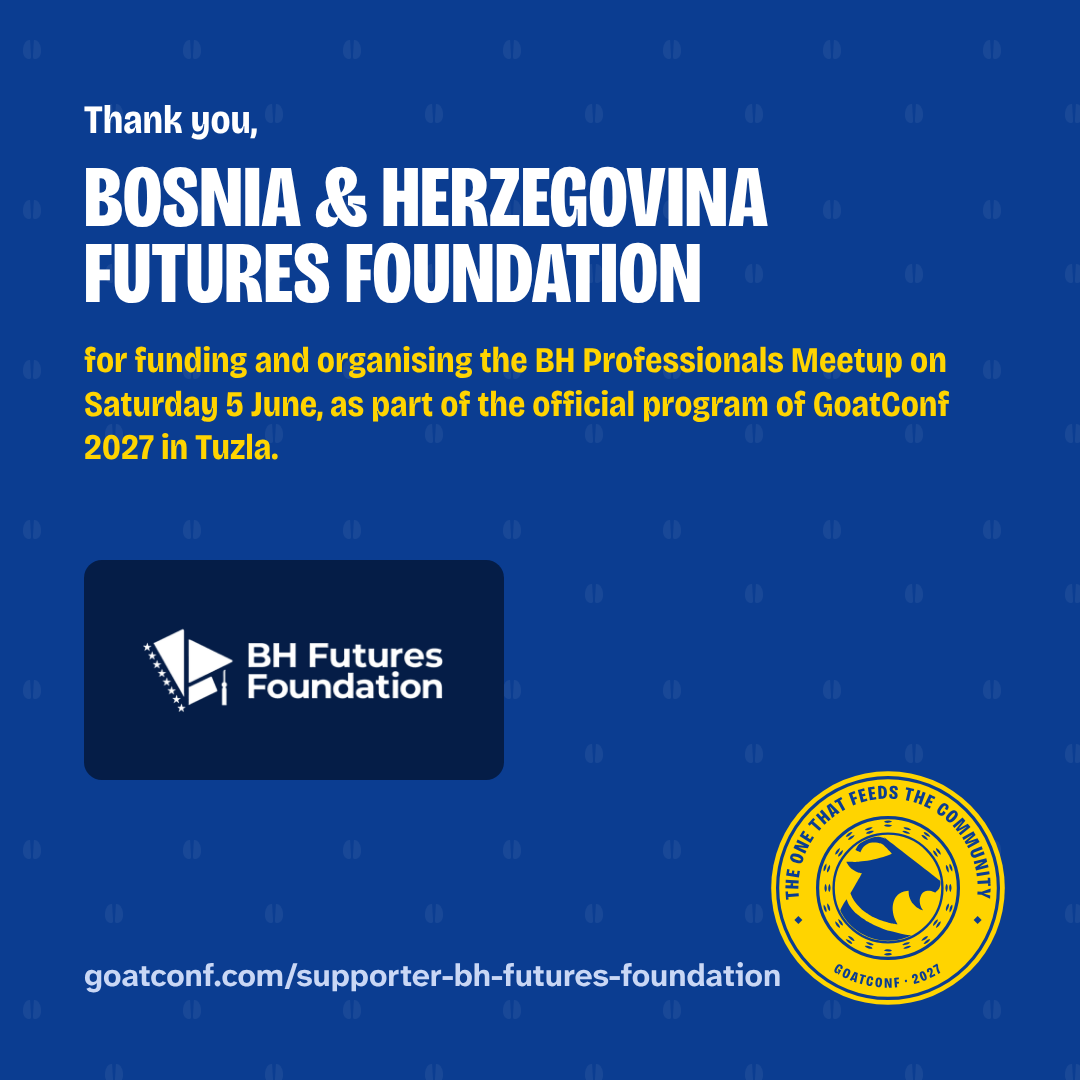
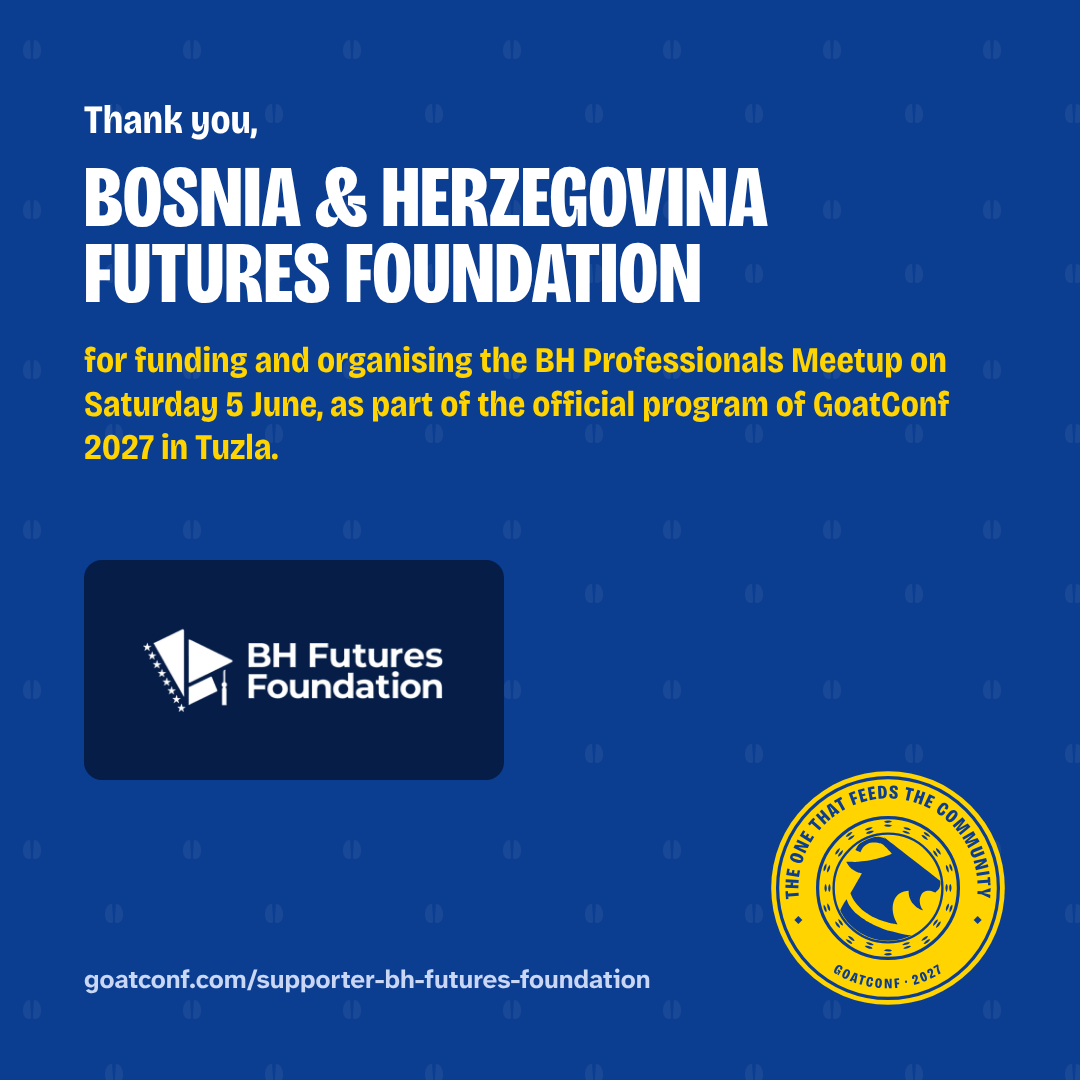
supporters: a "Proud supporter of GoatConf 2027" card for every supporter
Each supporter's profile now offers, above GoatConf's thank-you card,
its own card to post: "Proud supporter of GoatConf 2027", its logo, its
supporter line, when and where, and its profile's address, square and
wide, the same for every supporter. The local CI fails while one is
missing. A square card's address longer than 36 characters is set
smaller so it stays clear of the seal, which fixes the BH Futures
Foundation's square thank-you card.

diff --git a/files/site/supporter-bh-futures-foundation.html b/files/site/supporter-bh-futures-foundation.html
@@ -65,6 +65,12 @@
   <li><a class="sticker sticker--fact sticker--example" href="event-bh-professionals-meetup.html" data-peel style="--tilt:1deg"><span class="num">1</span><small class="sticker__kind">Meetup</small><strong>BH Professionals Meetup</strong><small>5 June 2027, 18:00 to 21:00. Run by Bosnia &amp; Herzegovina Futures Foundation.</small></a></li>
   </ul>
 </section>
+<section class="album-page wrap" aria-labelledby="h-cards-supporter-bh-futures-foundation-proud">
+  <h2 class="band" id="h-cards-supporter-bh-futures-foundation-proud">Your card: proud supporter</h2>
+  <p class="copy copy--wide">Your card, to post as your own: proud supporter of GoatConf 2027. It links back to this page.</p>
+  <img class="share-card" src="share/supporter-bh-futures-foundation-proud-wide.png" width="1200" height="675" alt="Bosnia &amp; Herzegovina Futures Foundation, proud supporter of GoatConf 2027" loading="lazy">
+  <p class="copy"><a class="go go--ink" href="share/supporter-bh-futures-foundation-proud-square.png" download>Download the square card</a> <a class="go go--ink" href="share/supporter-bh-futures-foundation-proud-wide.png" download>Download the wide card</a></p>
+</section>
 <section class="album-page wrap" aria-labelledby="h-cards-supporter-bh-futures-foundation">
   <h2 class="band" id="h-cards-supporter-bh-futures-foundation">The thank-you card</h2>
   <p class="copy copy--wide">A thank-you from GoatConf 2027 to post wherever you like. It links back to this page.</p>

diff --git a/files/site/supporter-wroclove-rb.html b/files/site/supporter-wroclove-rb.html
@@ -58,6 +58,12 @@
   <h2 class="band" id="h-support-them">How to support them</h2>
   <ul class="copy copy--wide support-them"><li><a href="https://wrocloverb.com/participants">Come to wroclove.rb, 23 to 25 April 2027 in Wrocław</a></li><li><a href="https://www.youtube.com/user/wrocloverb">Watch their past talks</a></li><li><a href="https://wrocloverb.kit.com/0430aa4d7d">Join their newsletter</a></li></ul>
 </section>
+<section class="album-page wrap" aria-labelledby="h-cards-supporter-wroclove-rb-proud">
+  <h2 class="band" id="h-cards-supporter-wroclove-rb-proud">Your card: proud supporter</h2>
+  <p class="copy copy--wide">Your card, to post as your own: proud supporter of GoatConf 2027. It links back to this page.</p>
+  <img class="share-card" src="share/supporter-wroclove-rb-proud-wide.png" width="1200" height="675" alt="wroclove.rb, proud supporter of GoatConf 2027" loading="lazy">
+  <p class="copy"><a class="go go--ink" href="share/supporter-wroclove-rb-proud-square.png" download>Download the square card</a> <a class="go go--ink" href="share/supporter-wroclove-rb-proud-wide.png" download>Download the wide card</a></p>
+</section>
 <section class="album-page wrap" aria-labelledby="h-cards-supporter-wroclove-rb">
   <h2 class="band" id="h-cards-supporter-wroclove-rb">The thank-you card</h2>
   <p class="copy copy--wide">A thank-you from GoatConf 2027 to post wherever you like. It links back to this page.</p>

diff --git a/files/site/supporter-ipi-academy.html b/files/site/supporter-ipi-academy.html
@@ -58,6 +58,12 @@
   <h2 class="band" id="h-support-them">How to support them</h2>
   <ul class="copy copy--wide support-them"><li><a href="https://ipi-akademija.ba/">Study at IPI Academy</a></li><li><a href="https://ipi-akademija.ba/kontakt">Offer students a placement, as an employer</a></li></ul>
 </section>
+<section class="album-page wrap" aria-labelledby="h-cards-supporter-ipi-academy-proud">
+  <h2 class="band" id="h-cards-supporter-ipi-academy-proud">Your card: proud supporter</h2>
+  <p class="copy copy--wide">Your card, to post as your own: proud supporter of GoatConf 2027. It links back to this page.</p>
+  <img class="share-card" src="share/supporter-ipi-academy-proud-wide.png" width="1200" height="675" alt="IPI Academy, proud supporter of GoatConf 2027" loading="lazy">
+  <p class="copy"><a class="go go--ink" href="share/supporter-ipi-academy-proud-square.png" download>Download the square card</a> <a class="go go--ink" href="share/supporter-ipi-academy-proud-wide.png" download>Download the wide card</a></p>
+</section>
 <section class="album-page wrap" aria-labelledby="h-cards-supporter-ipi-academy">
   <h2 class="band" id="h-cards-supporter-ipi-academy">The thank-you card</h2>
   <p class="copy copy--wide">A thank-you from GoatConf 2027 to post wherever you like. It links back to this page.</p>

diff --git a/files/site/supporter-meister.html b/files/site/supporter-meister.html
@@ -58,6 +58,12 @@
   <h2 class="band" id="h-support-them">How to support them</h2>
   <ul class="copy copy--wide support-them"><li><a href="https://www.meistertask.com">Try MeisterTask</a></li><li><a href="https://www.meistertask.com/pages/jobs">Work at Meister</a></li></ul>
 </section>
+<section class="album-page wrap" aria-labelledby="h-cards-supporter-meister-proud">
+  <h2 class="band" id="h-cards-supporter-meister-proud">Your card: proud supporter</h2>
+  <p class="copy copy--wide">Your card, to post as your own: proud supporter of GoatConf 2027. It links back to this page.</p>
+  <img class="share-card" src="share/supporter-meister-proud-wide.png" width="1200" height="675" alt="Meister, proud supporter of GoatConf 2027" loading="lazy">
+  <p class="copy"><a class="go go--ink" href="share/supporter-meister-proud-square.png" download>Download the square card</a> <a class="go go--ink" href="share/supporter-meister-proud-wide.png" download>Download the wide card</a></p>
+</section>
 <section class="album-page wrap" aria-labelledby="h-cards-supporter-meister">
   <h2 class="band" id="h-cards-supporter-meister">The thank-you card</h2>
   <p class="copy copy--wide">A thank-you from GoatConf 2027 to post wherever you like. It links back to this page.</p>

diff --git a/files/tools/shareables.py b/files/tools/shareables.py
@@ -12,7 +12,7 @@ from site/brand/, rendered to PNG by headless Chrome into site/share/:
             with a credited photo of Tuzla, each square (1080) and wide (1200 x 675)
   records   an "I'm speaking" card per published speaker (square, wide, and a
             1200 x 630 preview that their page's link preview shows), a
-            "thank you" card per supporter, and a card per accepted event
+            "thank you" card and a "proud supporter" card per supporter, and a card per accepted event
             (square, wide, and a 1200 x 630 preview for the event's page),
             built from speakers/, supporters/ and extensions/
 
@@ -231,6 +231,9 @@ def thanks(meta) -> str:
 def supporter_card(slug: str, meta, square: bool) -> str:
     w, h = (1080, 1080) if square else (1200, 675)
     logo = (SITE / meta["logo"]).as_uri()
+    address = f"{URL}/{speakers.supporter_page_name(slug)[:-5]}"
+    # A long address shrinks on the square card so it stays clear of the seal.
+    url_px = (32 if len(address) <= 36 else 26) if square else 26
     return page(w, h, f"""
 <div style="position:absolute; left:{84 if square else 72}px; top:{96 if square else 72}px; right:{84 if square else 460}px">
   <div class="sub" style="font-size:{40 if square else 32}px; color:#fff">Thank you,</div>
@@ -239,8 +242,30 @@ def supporter_card(slug: str, meta, square: bool) -> str:
 </div>
 <div style="position:absolute; {'left:84px; bottom:300px' if square else 'right:72px; top:72px'}; width:{420 if square else 340}px; height:{220 if square else 180}px; background:{NIGHT if meta.get('logo_on') == 'dark' else '#fff'}; border-radius:18px; display:grid; place-items:center; padding:28px">
   <img src="{logo}" style="max-width:100%; max-height:100%; object-fit:contain"></div>
-<div class="url" style="position:absolute; left:{84 if square else 72}px; bottom:{84 if square else 64}px; font-size:{32 if square else 26}px">{URL}/{speakers.supporter_page_name(slug)[:-5]}</div>
+<div class="url" style="position:absolute; left:{84 if square else 72}px; bottom:{84 if square else 64}px; font-size:{url_px}px">{address}</div>
 {seal(240 if square else 220, "right:72px; bottom:72px")}""")
+
+
+def proud_card(slug: str, meta, square: bool) -> str:
+    """For the supporter to post as their own: their logo, what they give, when and where, and their profile."""
+    w, h = (1080, 1080) if square else (1200, 675)
+    logo = (SITE / meta["logo"]).as_uri()
+    address = f"{URL}/{speakers.supporter_page_name(slug)[:-5]}"
+    # A long address shrinks on the square card so it stays clear of the seal.
+    url_px = (32 if len(address) <= 36 else 26) if square else 26
+    return page(w, h, f"""
+<div style="position:absolute; left:{84 if square else 72}px; top:{96 if square else 72}px; right:{84 if square else 72}px">
+  <div class="sub" style="font-size:{40 if square else 32}px; color:#fff">Proud supporter of</div>
+  <div class="word" style="font-size:{120 if square else 92}px; margin-top:16px">GoatConf 2027</div>
+</div>
+<div style="position:absolute; left:{84 if square else 72}px; top:{400 if square else 290}px; width:{560 if square else 400}px; height:{280 if square else 200}px; background:{NIGHT if meta.get('logo_on') == 'dark' else '#fff'}; border-radius:18px; display:grid; place-items:center; padding:32px">
+  <img src="{logo}" style="max-width:100%; max-height:100%; object-fit:contain"></div>
+<div style="position:absolute; left:{84 if square else 520}px; top:{730 if square else 300}px; right:{360 if square else 72}px">
+  <div class="sub" style="font-size:{34 if square else 28}px; line-height:1.2">{esc(str(meta["funds"]))}</div>
+  <div style="font-size:{30 if square else 24}px; font-weight:700; line-height:1.2; margin-top:20px">{FACTS}</div>
+</div>
+<div class="url" style="position:absolute; left:{84 if square else 72}px; bottom:{84 if square else 64}px; font-size:{url_px}px">{address}</div>
+{seal(240 if square else 160, "right:72px; bottom:72px" if square else "right:56px; bottom:48px")}""")
 
 
 def event_card(meta, slug: str, square: bool, height: int = 675) -> str:
@@ -289,6 +314,9 @@ def jobs() -> dict[str, tuple[int, int, str]]:
     for slug, (meta, _) in speakers.supporters().items():
         out[f"supporter-{slug}-square.png"] = (1080, 1080, supporter_card(slug, meta, True))
         out[f"supporter-{slug}-wide.png"] = (1200, 675, supporter_card(slug, meta, False))
+        proud = speakers.proud_cards(slug)
+        out[proud["square"]] = (1080, 1080, proud_card(slug, meta, True))
+        out[proud["wide"]] = (1200, 675, proud_card(slug, meta, False))
     for _, slug, meta, _ in extensions.accepted():
         names = extensions.cards(slug)
         out[names["square"]] = (1080, 1080, event_card(meta, slug, True))

diff --git a/files/tools/speakers.py b/files/tools/speakers.py
@@ -370,6 +370,11 @@ def supporter_cards(slug: str) -> dict:
     return {"square": f"supporter-{slug}-square.png", "wide": f"supporter-{slug}-wide.png"}
 
 
+def proud_cards(slug: str) -> dict:
+    """The supporter's own "Proud supporter of GoatConf 2027" cards, for them to post."""
+    return {"square": f"supporter-{slug}-proud-square.png", "wide": f"supporter-{slug}-proud-wide.png"}
+
+
 def supporter_page(slug: str, meta, body) -> str:
     name = esc(meta["name"])
     words = "".join(f"<p>{esc(p.strip())}</p>" for p in body.split("\n\n") if p.strip())
@@ -386,6 +391,9 @@ def supporter_page(slug: str, meta, body) -> str:
 {cards}
   </ul>
 </section>"""
+    proud = extensions.share_section(proud_cards(slug), f"{name}, proud supporter of GoatConf 2027",
+                                     "Your card, to post as your own: proud supporter of GoatConf 2027. It links back to this page.",
+                                     "Your card: proud supporter", SITE)
     thanks = extensions.share_section(supporter_cards(slug), f"Thank you, {name}", "A thank-you from GoatConf 2027 to post wherever you like. It links back to this page.",
                                       "The thank-you card", SITE)
     event_cards = "".join(extensions.share_section(extensions.cards(s), f"The card for {esc(m['name'])}",
@@ -396,7 +404,7 @@ def supporter_page(slug: str, meta, body) -> str:
   <h2 class="band" id="h-support">{"Who they are" if words else "Host and partner" if meta.get("host") is True else "Their support"}</h2>
   {f'<div class="copy copy--wide">{words}</div>' if words else ""}
   <p class="copy"><a class="go go--ink" href="{esc(meta["url"])}">{site}</a> <a class="go go--ink" href="supporters.html">All supporters</a></p>
-</section>{support}{events}{thanks}{event_cards}"""
+</section>{support}{events}{proud}{thanks}{event_cards}"""
     # A link to the profile shows the card of the first event they host, else their thank-you card.
     previews = [extensions.cards(s)["preview"] for s in hosted] + [supporter_cards(slug)["wide"]]
     preview = next((name for name in previews if (SITE / "share" / name).exists()), "")
@@ -508,7 +516,7 @@ def cmd_build(args) -> int:
                       f"run python3 tools/shareables.py render --only {preview_name(slug)}")
                 stale += 1
         for slug in supporters():
-            for card in supporter_cards(slug).values():
+            for card in [*supporter_cards(slug).values(), *proud_cards(slug).values()]:
                 if not (SITE / "share" / card).exists():
                     print(f"site/share/{card} is missing, so the supporter's profile has no card to download: "
                           f"run python3 tools/shareables.py render --only supporter-{slug}")

diff --git a/files/tests/test_speakers.py b/files/tests/test_speakers.py
@@ -314,7 +314,7 @@ def test_host_and_logo_background_are_checked(tmp_path, monkeypatch):
     assert any("host must be yes" in p for p in problems) and any("logo_on must be" in p for p in problems)
 
 
-def test_each_supporter_has_a_profile_with_their_cards(tmp_path, monkeypatch):
+def test_each_supporter_has_a_profile_with_their_cards(tmp_path, monkeypatch, capsys):
     _, speakers = setup(tmp_path, monkeypatch)
     monkeypatch.setattr(speakers, "PAGES", {"speakers": tmp_path / "site" / "speakers.html", "supporters": tmp_path / "site" / "supporters.html"})
     wall = speakers.supporters_page()
@@ -323,14 +323,22 @@ def test_each_supporter_has_a_profile_with_their_cards(tmp_path, monkeypatch):
     assert 'href="supporter-acme.html"' in home.supporters_block()
     page = speakers.supporter_page("acme", *speakers.supporters()["acme"])
     assert '<h1 class="sign">Acme</h1>' in page and 'href="https://acme.example">acme.example</a>' in page
-    assert "The thank-you card" not in page and "image_src" not in page  # no cards rendered yet
+    assert "The thank-you card" not in page and "Your card: proud supporter" not in page and "image_src" not in page  # no cards rendered yet
     assert speakers.cmd_build(type("A", (), {"check": False})()) == 0
     assert (tmp_path / "site" / "supporter-acme.html").exists()
     (tmp_path / "site" / "share").mkdir()
     for size in ("square", "wide"):
         (tmp_path / "site" / "share" / f"supporter-acme-{size}.png").write_bytes(b"png")
+    capsys.readouterr()
+    assert speakers.cmd_build(type("A", (), {"check": True})()) == 1
+    missing = capsys.readouterr().out
+    assert "site/share/supporter-acme-proud-square.png is missing" in missing and "supporter-acme-square.png is missing" not in missing
+    for size in ("square", "wide"):
+        (tmp_path / "site" / "share" / f"supporter-acme-proud-{size}.png").write_bytes(b"png")
     page = speakers.supporter_page("acme", *speakers.supporters()["acme"])
     assert 'href="share/supporter-acme-square.png" download' in page and 'href="share/supporter-acme-wide.png" download' in page
+    assert 'href="share/supporter-acme-proud-square.png" download' in page and 'href="share/supporter-acme-proud-wide.png" download' in page
+    assert page.index("Your card: proud supporter") < page.index("The thank-you card")
     assert '<link rel="image_src" href="https://goatconf.com/share/supporter-acme-wide.png">' in page
     (tmp_path / "supporters" / "acme.md").unlink()
     assert speakers.cmd_build(type("A", (), {"check": False})()) == 0

diff --git a/files/wiki/index.md b/files/wiki/index.md
@@ -18,6 +18,7 @@ what is proposed is on the [pitches hub](org/pitches/index.md).
 ## What changed
 
 <!-- home-section: filled; maintained-by: /shape; updated: 2026-10-21 -->
+- **2026-10-21**: **A "Proud supporter" card for every supporter.** Each supporter's profile now offers, above GoatConf's thank-you card, its own card to post: "Proud supporter of GoatConf 2027", its logo, its supporter line, Tuzla, 3 to 5 June 2027, and its profile's address, square and wide, the same for every supporter. A long address on a square card is set smaller to stay clear of the seal, which fixes the Bosnia & Herzegovina Futures Foundation's thank-you card ([profiles](org/outreach/supporter-profiles.md); source: sources/conversations/2026-10-21--org--proud-supporter-cards.md).
 - **2026-10-21**: **Companies and communities, and a thank-you for wroclove.rb.** The supporters page's lede, intro and description now say "companies and communities" where they said "companies". The drumbeat's "Thank you, wroclove.rb" post, with its card, takes Tuesday 12 January 2027, week 14, and that week's "Who's organising" post is dropped, with its image ([drumbeat](org/outreach/drumbeat.md); source: sources/conversations/2026-10-21--org--wroclove-rb-extras.md).
 - **2026-10-21**: **wroclove.rb, a community partner, on the supporters wall.** The Ruby conference in Wrocław shares GoatConf on its social media and is listed by name with the other supporters, for "Community partner: social media", with its own logo, a profile drafted from its site and a thank-you card "for being a community partner and sharing GoatConf on social media." A community partner that gives in kind is now listed the same way ([Online supporters](org/adrs/online-supporters-through-the-business.md); [profiles](org/outreach/supporter-profiles.md); sources: sources/conversations/2026-10-21--org--wroclove-rb-community-partner.md, sources/web/supporters/wroclove-rb-about-2026-10-21.md).
 - **2026-10-20**: **Album-page bands sit inside a white edge.** The blue band across the top of each album page no longer blends into the blue ground: the white page wraps round it in a thin edge, like the fact stickers on the home page ([the impeccable ADR](org/adrs/design-with-impeccable.md); source: sources/conversations/2026-10-20--org--band-framed.md).

diff --git a/files/wiki/org/outreach/supporter-profiles.md b/files/wiki/org/outreach/supporter-profiles.md
@@ -5,6 +5,7 @@ status: living
 updated: 2026-10-21
 confidence: low
 sources:
+  - sources/conversations/2026-10-21--org--proud-supporter-cards.md
   - sources/conversations/2026-10-18--org--show-support-parts.md
   - sources/conversations/2026-10-18--org--supporter-descriptions.md
   - sources/web/supporters/bhff-get-involved-2026-10-18.md
@@ -28,6 +29,13 @@ The organiser approved them, and they are on the profiles since
 sources/conversations/2026-10-18--org--show-support-parts.md). The note
 below still goes to each supporter, so they can correct or replace
 their part.
+
+Each profile also offers two pairs of cards, square and wide: from
+2026-10-21 a "Proud supporter of GoatConf 2027" card for the supporter to
+post as their own, with their logo, their supporter line, when and where,
+and their profile's address, the same headline for every supporter, the
+host included; then GoatConf's thank-you card to them. A link to a
+profile still previews with the thank-you card (source: sources/conversations/2026-10-21--org--proud-supporter-cards.md).
 
 ## Bosnia & Herzegovina Futures Foundation
 
@@ -102,7 +110,7 @@ sources/web/supporters/wroclove-rb-about-2026-10-21.md). "Poland" is added, as W
 
 > Hello,
 >
-> Thank you for supporting GoatConf 2027. You now have a profile on goatconf.com, where you can download your thank-you card to share: https://goatconf.com/supporter-SLUG
+> Thank you for supporting GoatConf 2027. You now have a profile on goatconf.com, where you can download your own "Proud supporter of GoatConf 2027" card and our thank-you card to share: https://goatconf.com/supporter-SLUG
 >
 > We would like it to say who you are and how people can support you. Here is a short draft, written from your own website:
 >

diff --git a/files/sources/conversations/2026-10-21--org--proud-supporter-cards.md b/files/sources/conversations/2026-10-21--org--proud-supporter-cards.md
@@ -1,0 +1,32 @@
+---
+title: "Every supporter gets a \"Proud supporter of GoatConf 2027\" card to post as their own"
+date: 2026-10-21
+kind: conversation
+---
+
+After wroclove.rb's profile and thank-you cards went up (PR #150,
+sources/conversations/2026-10-21--org--wroclove-rb-community-partner.md),
+the organiser wrote, verbatim:
+
+> Also... For supporters, we should also have the "We are supporting GoatConf" cards for them to download and post?
+
+Each supporter's profile had only GoatConf's thank-you card to them. The
+agent asked four questions, and the organiser chose:
+
+- **The headline:** "Proud supporter of GoatConf 2027".
+- **The host:** "Same headline for everyone". IPI Academy's card reads
+  "Proud supporter of GoatConf 2027" too, not "hosting".
+- **What the card shows:** "Same, linking to their profile". The
+  supporter's logo, their supporter line as the supporters page shows it,
+  "Tuzla · 3–5 June 2027 · Free to attend", and the address of their
+  GoatConf profile, such as goatconf.com/supporter-wroclove-rb.
+- **Where it goes:** "Above the thank-you card". On each profile, a
+  section with the new card, square and wide, to download, then the
+  thank-you card. A link to the profile still previews with the
+  thank-you card, or with the card of the event they host.
+
+While checking the new cards the agent saw that on the square thank-you
+card of the Bosnia & Herzegovina Futures Foundation the long profile
+address ran into the seal. On both kinds of card a square card's address
+longer than 36 characters is now set smaller, so it stays clear of the
+seal; that card was rendered again, and no other card changed.

diff --git a/files/supporters/README.md b/files/supporters/README.md
@@ -42,7 +42,9 @@ one.
   lettering); it is shown on the site's dark blue. The default is `light`.
 
 Each supporter gets a profile, `site/supporter-<file name>.html`, where they
-download their thank-you card (square and wide), rendered with
+download their thank-you card and their own "Proud supporter of GoatConf
+2027" card (each square and wide), which shows their logo, their `funds`
+line, when and where, and their profile's address. Both are rendered with
 `python3 tools/shareables.py render --only supporter-<file name>`. The
 supporters page and the home page link to it.
 
